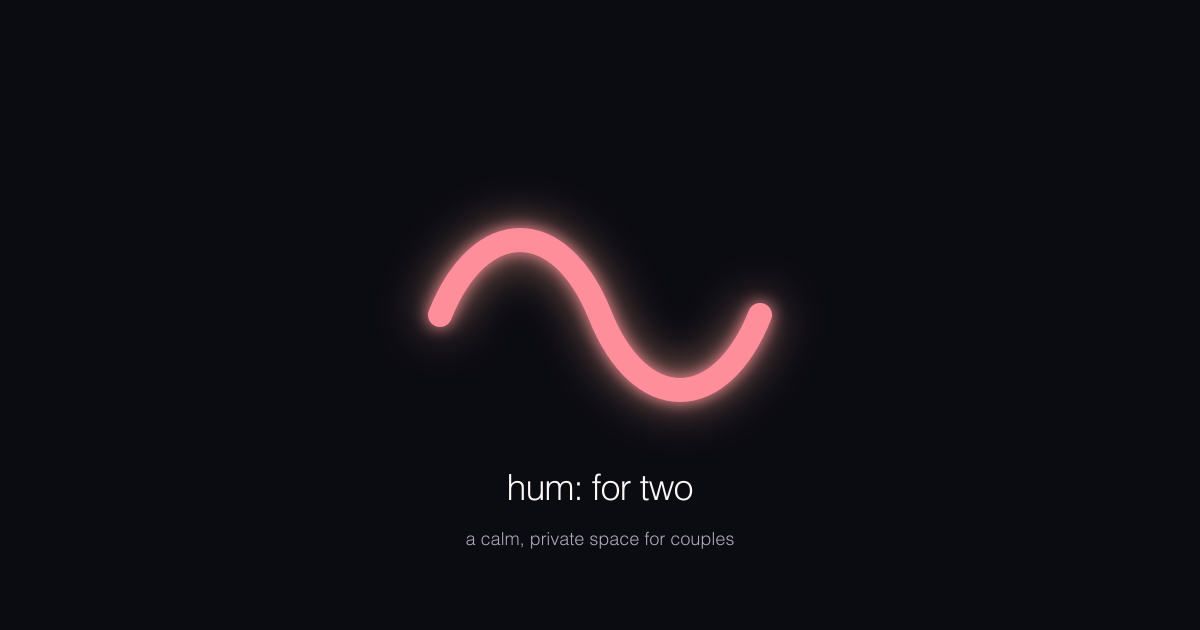
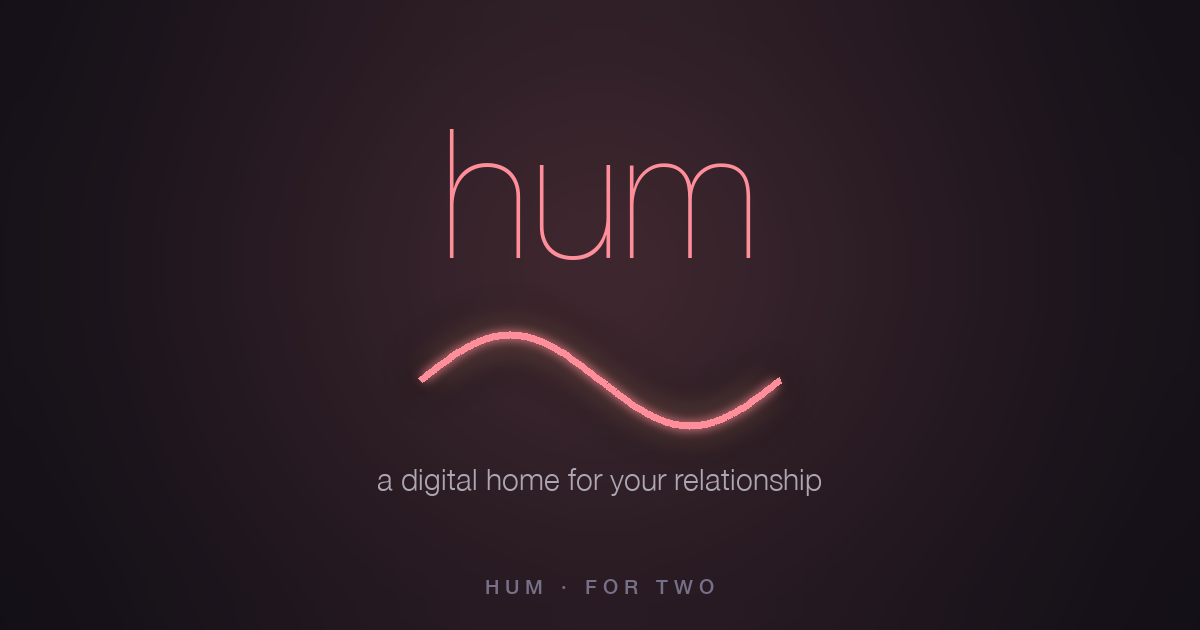
hum: v12 consistency pass — narrative, feature taglines, OG, CTA
Mirrors the v12 promotional deck phrasing finalized over many
iterations (canonical source: humm/marketing/generate.py FRAMES) so
the public site, the App Store screenshot deck, and the App Store
listing all read as one piece.

- title / meta / OG / Twitter cards reset to v12 home tagline +
  verb list. og:title -> "hum · a digital home for your relationship".
- Hero h1 "the little things, all in one place" -> "a digital home /
  for your relationship". Eyebrow "just for two" -> "hum · for two".
  Hero sub -> "the small things, every day - just the two of you."
- Feature rail re-ordered to match deck narrative order
  (mood -> habits -> decide -> awards -> reasons -> you) and each h3
  replaced with the v12 tagline + inline <span class="feature-accent">
  on the bracketed feature word.
- Rail-hint "swipe ->" -> "-> keep going" (anti-positioning safety).
- Promise list: dropped "no in-app purchases" (the app is free, so
  it's implied by "no subscriptions"); added "just the two of you."
  to match the v12 cover-frame anchor exactly.
- Final CTA "start together." -> brand-as-verb "hum with your partner."
  matching the v12 close frame.
- og-cover.png regenerated at 1200x630 from the v12 cover composition
  (rose 'hum' wordmark + resonance signature + tagline + tracked
  HUM · FOR TWO footer); produced by humm/marketing/generate_og.py.
- style.css: added .feature-accent rule that consumes each card's
  existing --feature-tag-color cascade variable so the accent word
[…]

diff --git a/hum/index.html b/hum/index.html
@@ -5,33 +5,33 @@
     <meta name="viewport" content="width=device-width, initial-scale=1, viewport-fit=cover" />
     <meta name="theme-color" content="#0B0B12" />
     <meta name="color-scheme" content="dark" />
-    <title>hum &middot; for two</title>
+    <title>hum &middot; a digital home for your relationship</title>
     <meta
       name="description"
-      content="hum is a calm, invite-only space for two. share moods, build habits, decide together, celebrate each other, and trade reasons you love each other. no public feed. no ads."
+      content="hum is a calm, invite-only home for two. log mood, track habits, decide together, award little extras, and trade reasons you love them. no feed, no ads, no subscriptions, no tracking."
     />
 
-    <!-- Open Graph -->
+    <!-- Open Graph (WhatsApp / Instagram / iMessage / Facebook) -->
     <meta property="og:type" content="website" />
-    <meta property="og:site_name" content="hum: for two" />
-    <meta property="og:title" content="hum · a calm, private space for couples" />
+    <meta property="og:site_name" content="hum &middot; for two" />
+    <meta property="og:title" content="hum · a digital home for your relationship" />
     <meta
       property="og:description"
-      content="a calm, invite-only space for two. share moods, build habits, decide together, and trade reasons you love each other."
+      content="log mood, track habits, decide together, award little extras, trade reasons you love them. just the two of you, across platforms."
     />
     <meta property="og:url" content="https://aaam.dev/hum/" />
     <meta property="og:image" content="https://aaam.dev/hum/images/og-cover.png" />
     <meta property="og:image:width" content="1200" />
     <meta property="og:image:height" content="630" />
     <meta property="og:image:type" content="image/png" />
-    <meta property="og:image:alt" content="hum app — a calm, private space for couples" />
+    <meta property="og:image:alt" content="hum app — a digital home for your relationship, on iPhone" />
 
     <!-- Twitter / X -->
     <meta name="twitter:card" content="summary_large_image" />
-    <meta name="twitter:title" content="hum · a calm, private space for couples" />
+    <meta name="twitter:title" content="hum · a digital home for your relationship" />
     <meta
       name="twitter:description"
-      content="a calm, invite-only space for two."
+      content="log mood, track habits, decide together, award little extras, trade reasons you love them — just the two of you."
     />
     <meta name="twitter:image" content="https://aaam.dev/hum/images/og-cover.png" />
 
@@ -61,12 +61,12 @@
     <main id="top">
       <!-- HERO -->
       <section class="hero">
-        <p class="eyebrow">just for two</p>
+        <p class="eyebrow">hum &middot; for two</p>
         <h1>
-          the little things,<br />
-          <span class="hero-accent">all in one place.</span>
+          a digital <span class="hero-accent">home</span><br />
+          for your relationship
         </h1>
-        <p class="hero-sub">a calm, invite-only space &mdash; just for the two of you.</p>
+        <p class="hero-sub">the small things, every day &mdash; just the two of you.</p>
 
         <div class="hero-stage">
           <div class="phone phone--hero">
@@ -104,31 +104,16 @@
 
       <!-- FEATURES -->
       <section id="features" class="features">
-        <p class="eyebrow eyebrow-center">together</p>
+        <p class="eyebrow eyebrow-center">six rituals</p>
         <h2>small things, every day</h2>
 
         <div class="feature-rail" role="list">
-          <article class="feature feature--reasons" role="listitem">
-            <h3>say why you love them.</h3>
-            <div class="phone">
-              <img
-                src="images/marketing/06-reasons.png"
-                alt="reasons — write one for them, reveal three from them"
-                width="1320"
-                height="2868"
-                loading="lazy"
-                decoding="async"
-              />
-            </div>
-            <span class="feature-tag">reasons</span>
-          </article>
-
           <article class="feature feature--mood" role="listitem">
-            <h3>how are you, really?</h3>
+            <h3>log your <span class="feature-accent">mood</span> for both to see.</h3>
             <div class="phone">
               <img
                 src="images/marketing/02-mood.png"
-                alt="mood — check in together, see the week side by side"
+                alt="mood — log your mood for both to see"
                 width="1320"
                 height="2868"
                 loading="lazy"
@@ -138,27 +123,12 @@
             <span class="feature-tag">mood</span>
           </article>
 
-          <article class="feature feature--awards" role="listitem">
-            <h3>celebrate each other.</h3>
-            <div class="phone">
-              <img
-                src="images/marketing/05-awards.png"
-                alt="awards — nominate each other, celebrate the winners"
-                width="1320"
-                height="2868"
-                loading="lazy"
-                decoding="async"
-              />
-            </div>
-            <span class="feature-tag">awards</span>
-          </article>
-
           <article class="feature feature--habits" role="listitem">
-            <h3>grow together, daily.</h3>
+            <h3>track <span class="feature-accent">habits</span> and grow together.</h3>
             <div class="phone">
               <img
                 src="images/marketing/03-habits.png"
-                alt="habits — shared and personal goals, six-week heatmap"
+                alt="habits — track habits and grow together"
                 width="1320"
                 height="2868"
                 loading="lazy"
@@ -169,11 +139,11 @@
           </article>
 
           <article class="feature feature--decide" role="listitem">
-            <h3>never &ldquo;I don&rsquo;t mind&rdquo; again.</h3>
+            <h3>can&rsquo;t <span class="feature-accent">decide</span>? gamify or randomize.</h3>
             <div class="phone">
               <img
                 src="images/marketing/04-decide.png"
-                alt="decide — vote together, or let the app pick"
+                alt="decide — gamify or randomize when you can't decide"
                 width="1320"
                 height="2868"
                 loading="lazy"
@@ -183,12 +153,42 @@
             <span class="feature-tag">decide</span>
           </article>
 
+          <article class="feature feature--awards" role="listitem">
+            <h3><span class="feature-accent">award</span> little extras, no bare minimum.</h3>
+            <div class="phone">
+              <img
+                src="images/marketing/05-awards.png"
+                alt="awards — award little extras, no bare minimum"
+                width="1320"
+                height="2868"
+                loading="lazy"
+                decoding="async"
+              />
+            </div>
+            <span class="feature-tag">awards</span>
+          </article>
+
+          <article class="feature feature--reasons" role="listitem">
+            <h3>add &amp; see <span class="feature-accent">reasons</span> you love them.</h3>
+            <div class="phone">
+              <img
+                src="images/marketing/06-reasons.png"
+                alt="reasons — add and see reasons you love them"
+                width="1320"
+                height="2868"
+                loading="lazy"
+                decoding="async"
+              />
+            </div>
+            <span class="feature-tag">reasons</span>
+          </article>
+
           <article class="feature feature--you" role="listitem">
-            <h3>a quiet place to reflect.</h3>
+            <h3>rewards <span class="feature-accent">you</span> for being better.</h3>
             <div class="phone">
               <img
                 src="images/marketing/07-you.png"
-                alt="you — your journey, your streaks, your growth"
+                alt="you — rewards you for being better"
                 width="1320"
                 height="2868"
                 loading="lazy"
@@ -199,7 +199,7 @@
           </article>
         </div>
 
-        <p class="rail-hint" aria-hidden="true">swipe &rarr;</p>
+        <p class="rail-hint" aria-hidden="true">&rarr; keep going</p>
       </section>
 
       <!-- PROMISE -->
@@ -211,16 +211,16 @@
         </h2>
         <ul class="promise-list" aria-label="what hum doesn't do">
           <li>no ads.</li>
-          <li>no in-app purchases.</li>
           <li>no subscriptions.</li>
           <li>no tracking.</li>
+          <li>just the two of you.</li>
         </ul>
         <p class="promise-coda">that&rsquo;s how an app should work.</p>
       </section>
 
       <!-- FINAL CTA -->
       <section class="final-cta">
-        <h2>start together.</h2>
+        <h2><span class="hero-accent">hum</span> with your partner.</h2>
         <div class="cta-group">
           <a href="https://apps.apple.com/us/app/hum-for-two/id6768805132" class="cta-button cta-button--bottom" aria-label="Download hum on the App Store">
             <svg class="cta-apple" width="18" height="18" viewBox="0 0 384 512" fill="currentColor" aria-hidden="true"><path d="M318.7 268.7c-.2-36.7 16.4-64.4 50-84.8-18.8-26.9-47.2-41.7-84.7-44.6-35.5-2.8-74.3 20.7-88.5 20.7-15 0-49.4-19.7-76.4-19.7C63.3 141.2 4 184 4 276.8c0 27.3 4.9 55.6 14.7 84.9 13.1 39.1 60.3 134.9 109.4 133.2 25.7-.6 43.8-18.3 77.3-18.3 32.4 0 49.2 18.3 77.3 17.7 48.3-.8 90.8-83.8 103.6-123 .2-.7.4-1.3.6-2-61.8-26.1-64.2-92.8-64.2-100.6zM256 50.9c29-33.8 26.6-65 25.8-76.3-25.8 1.5-55.6 17.3-72.8 37.3-18.8 21.7-29.8 48.5-27.5 77.3 28.6 2.2 55.9-13.3 74.5-38.3z"/></svg>

diff --git a/hum/style.css b/hum/style.css
@@ -587,6 +587,16 @@ section h2 {
   text-wrap: balance;
 }
 
+/* Inline accent on feature h3 — colors the bracketed feature word the
+ * same hue used in the v12 promotional deck (synced with
+ * humm/marketing/generate.py FRAMES). Inherits each card's
+ * --feature-tag-color cascade variable. */
+.feature-accent {
+  color: var(--feature-tag-color, var(--primary));
+  font-style: inherit;
+  font-weight: 400;
+}
+
 @media (min-width: 880px) {
   .feature-rail {
     overflow: visible;
